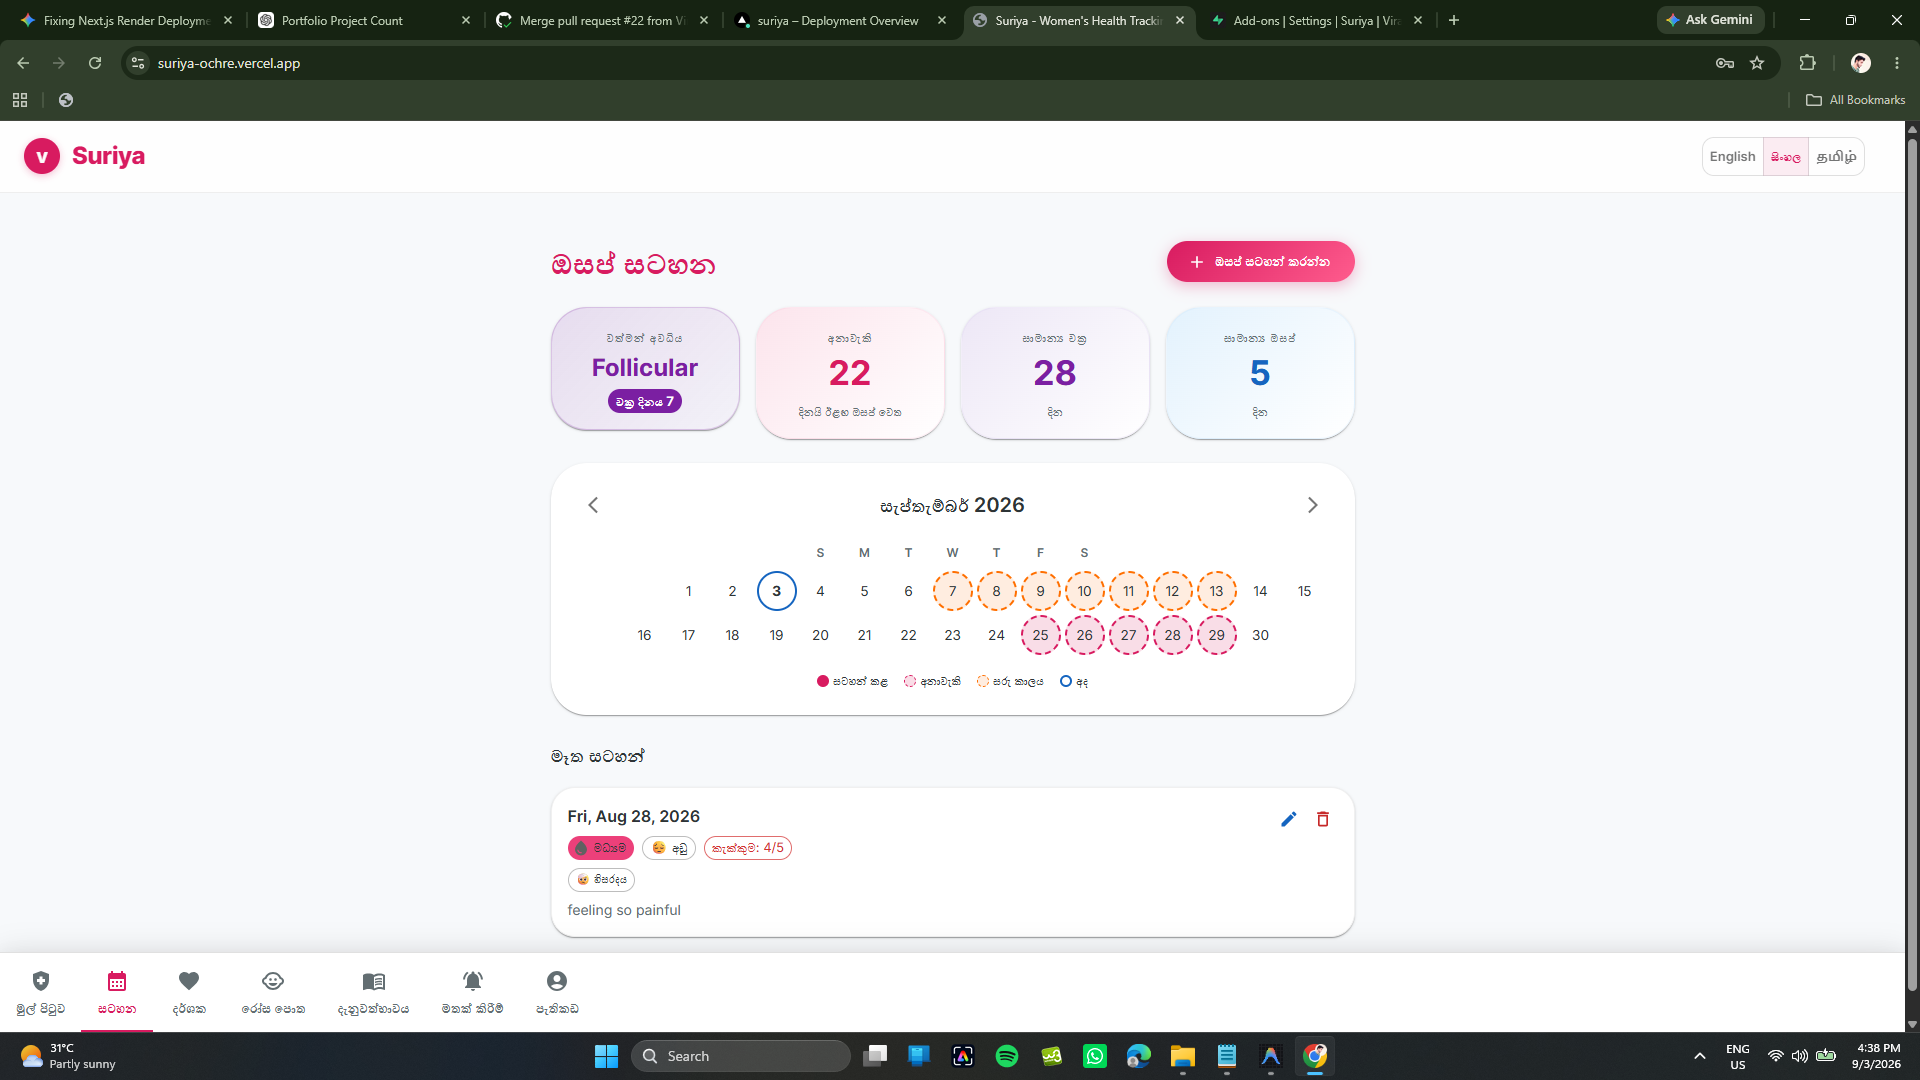
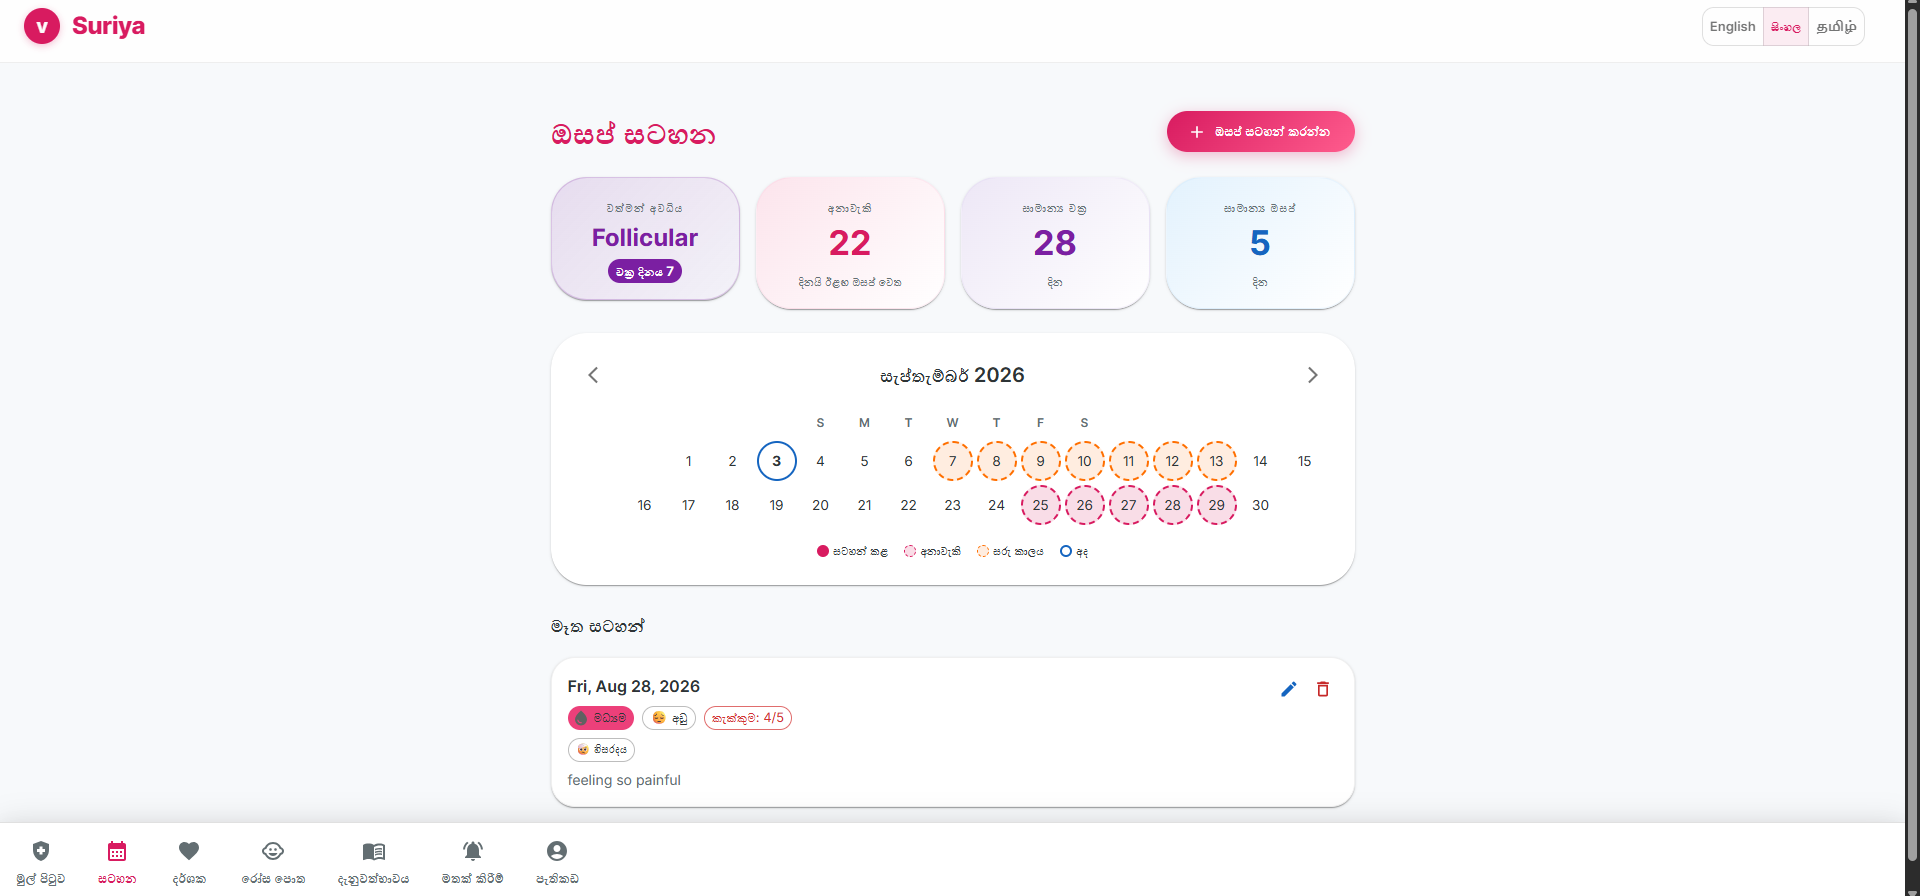
feat: implement menstrual tracker component with calendar and cycle analytics

diff --git a/src/components/MenstrualTracker.tsx b/src/components/MenstrualTracker.tsx
@@ -427,8 +427,8 @@ export default function MenstrualTracker() {
                         {language === 'en' ? 'Recent Logs' : language === 'si' ? 'මෑත සටහන්' : 'சமீபத்திய பதிவுகள்'}
                     </Typography>
                     <Stack spacing={1.5}>
-                        {[...cycleLogs].reverse().slice(0, 5).map((log) => (
-                            <Paper key={log.id} sx={{ p: 2, borderRadius: 2, border: '1px solid #f0f0f0' }}>
+                        {[...cycleLogs].reverse().slice(0, 5).map((log, index) => (
+                            <Paper key={`${log.id}-${index}`} sx={{ p: 2, borderRadius: 2, border: '1px solid #f0f0f0' }}>
                                 <Box sx={{ display: 'flex', justifyContent: 'space-between', alignItems: 'flex-start' }}>
                                     <Box sx={{ flex: 1 }}>
                                         <Typography fontWeight={600}>{new Date(log.date).toLocaleDateString(undefined, { weekday: 'short', year: 'numeric', month: 'short', day: 'numeric' })}</Typography>

diff --git a/src/components/VitalLogger.tsx b/src/components/VitalLogger.tsx
@@ -398,8 +398,8 @@ export default function VitalLogger() {
                         </Paper>
                     ) : (
                         <Stack spacing={1.5}>
-                            {filteredLogs.map((log) => (
-                                <Paper key={log.id} sx={{
+                            {filteredLogs.map((log, index) => (
+                                <Paper key={`${log.id}-${index}`} sx={{
                                     p: 2, borderRadius: 2,
                                     borderLeft: `4px solid ${VITAL_COLORS[log.vitalType]}`,
                                     transition: 'transform 0.2s, box-shadow 0.2s',

diff --git a/src/app/layout.tsx b/src/app/layout.tsx
@@ -19,8 +19,8 @@ export default function RootLayout({
     children: React.ReactNode;
 }) {
     return (
-        <html lang="en">
-            <body className={inter.className}>
+        <html lang="en" suppressHydrationWarning>
+            <body className={inter.className} suppressHydrationWarning>
                 <AppRouterCacheProvider options={{ enableCssLayer: true }}>
                     <ThemeProvider theme={theme}>
                         <CssBaseline />

diff --git a/src/lib/auth.ts b/src/lib/auth.ts
@@ -41,6 +41,7 @@ export const { handlers, auth, signIn, signOut } = NextAuth({
     session: {
         strategy: 'jwt',
     },
+    trustHost: true,
     useSecureCookies: process.env.NODE_ENV === 'production',
     callbacks: {
         async jwt({ token, user }) {

diff --git a/README.md b/README.md
@@ -80,7 +80,7 @@ This is a portfolio and educational project. The source code is provided for rev
 
 ## 📬 Contact
 
-📧 Email: virajtharindu1997@gmail.com  
-💼 LinkedIn: https://www.linkedin.com/in/viraj-tharindu/  
-🌐 Portfolio: [Visit my portfolio](https://virajtharindu.com)  
-🐙 Project Link: [https://github.com/VirajTharindu/Surya-Women-s-Health-Tracing-and-Monitoring-System-Web-App-NextJS-FullStack](https://github.com/VirajTharindu/Surya-Women-s-Health-Tracing-and-Monitoring-System-Web-App-NextJS-FullStack)*
+📧 Email: [virajtharindunayan@gmail.com](mailto:virajtharindunayan@gmail.com)  
+💼 LinkedIn: [viraj-tharindu](https://www.linkedin.com/in/viraj-tharindu/)  
+🌐 Portfolio: [Visit my portfolio](https://viraj-tharindu-portfolio-web-site.vercel.app/)  
+🐙 Project Link: [https://github.com/VirajTharindu/Surya-Women-s-Health-Tracing-and-Monitoring-System-Web-App-NextJS-FullStack](https://github.com/VirajTharindu/Suriya-Women-s-Health-Tracing-and-Monitoring-System-Web-App-NextJS-FullStack)
